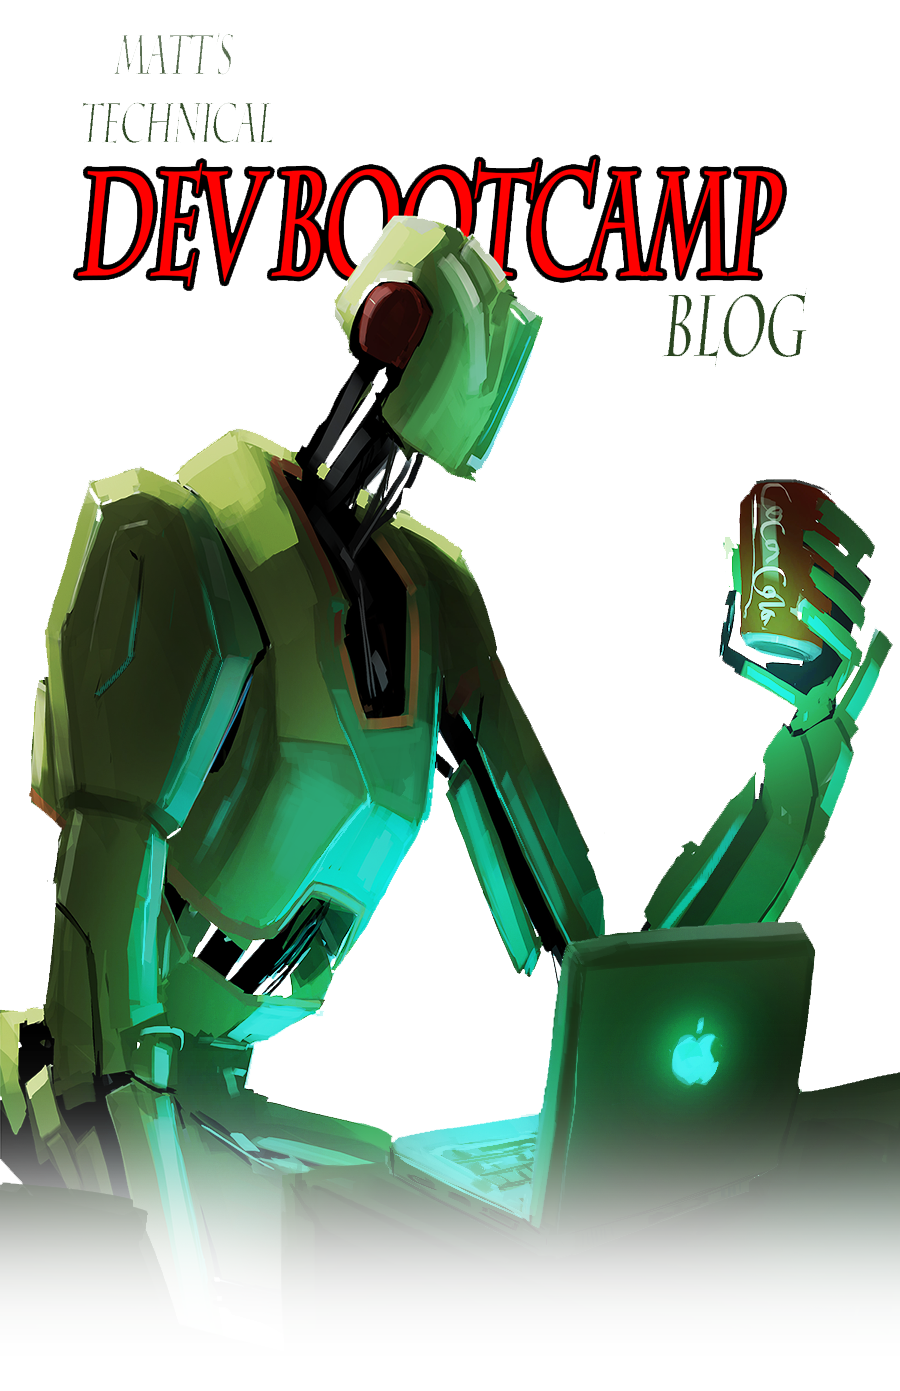
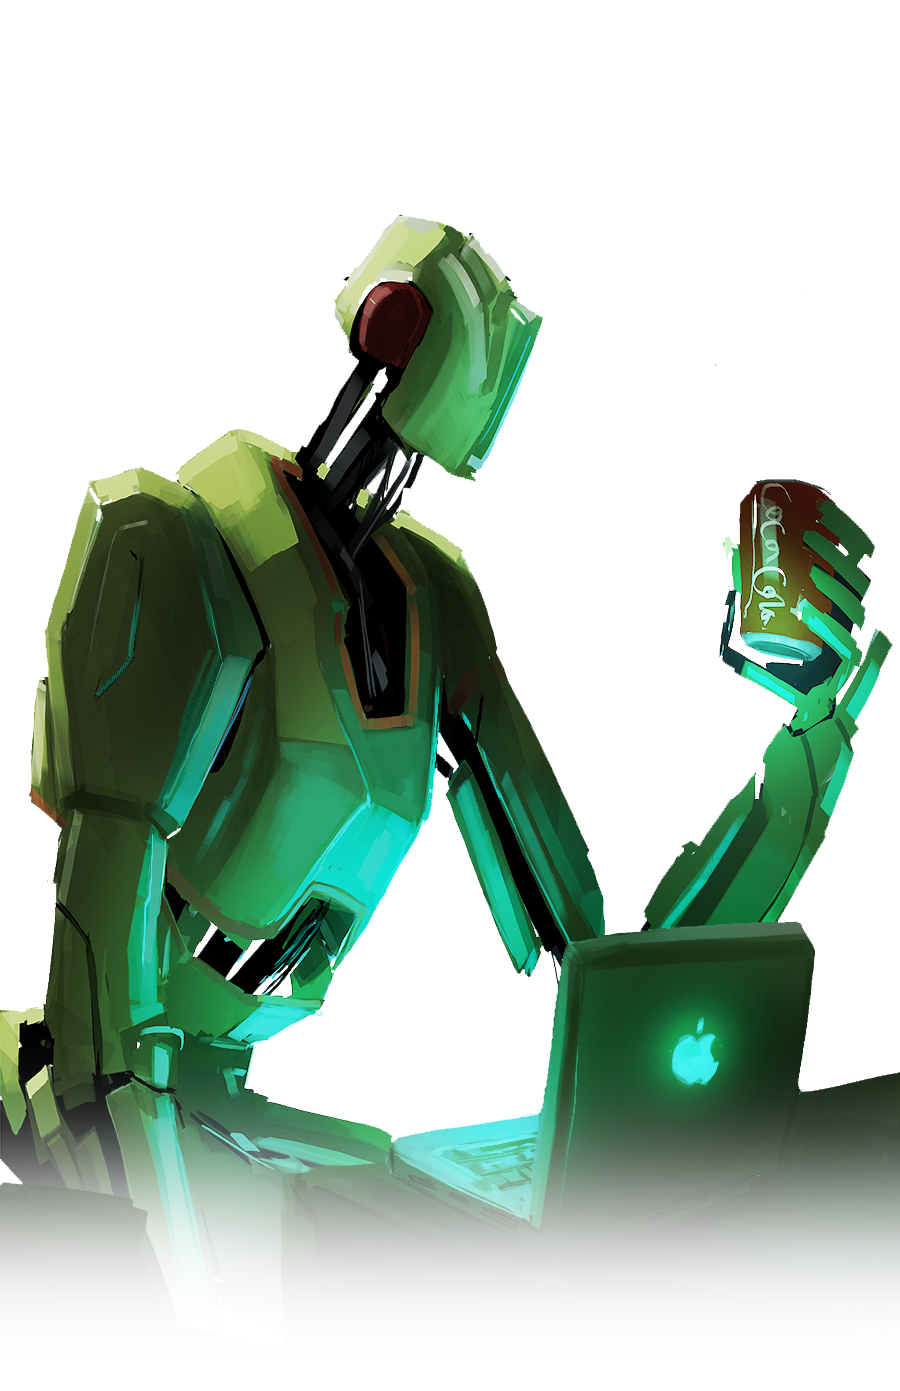
tech blog template

diff --git a/blog/blog-template.html b/blog/blog-template.html
@@ -1,0 +1,54 @@
+<!DOCTYPE html>
+<head>
+  <title>Your page title here</title>
+  <meta charset="UTF-8">
+  <link rel="stylesheet" type="text/css" href="../stylesheets/blog-stylesheet.css">
+</head>
+
+<html>
+<table id="techblogpage">
+  <tr>
+    <td id="techlogo">
+        <table>
+          <tr id="top">
+            <td>
+                <img src="roboto6.png" width="100%">
+            </td>
+          </tr>
+
+          <tr id="bottom">
+            <td id="space">
+
+            </td>
+          </tr>
+        </table>
+    </td>
+    <td id="blog">
+
+      <table>
+        <tr>
+          <td id="websiteheader">
+              <table>
+                <tr><td><img src="../websitetitle.png" width="100%"></td><td id="social">social media links</td></tr>
+
+              </table>
+
+
+        </td>
+      </tr>
+      <tr>
+        <td id="blog">
+          <main>
+          <h1>Post Title</h1>
+          <h2>The subtitle, if you want it</h2>
+          <h4>Today's Date</h4>
+          </main>
+        </td>
+      </tr>
+
+    </table>
+    </td>
+  </tr>
+</table>
+
+</html>

diff --git a/stylesheets/blog-stylesheet.css b/stylesheets/blog-stylesheet.css
@@ -1,0 +1,60 @@
+table{
+width:100%;
+height: 100%;
+}
+#techblogpage{
+background-image: url("../websitebg.png");
+background-repeat: true;
+background-size: 100%;
+
+}
+
+#techlogo{
+background-color: transparent;
+width: 30%;
+
+}
+
+#top{
+
+height: 200px;
+
+}
+
+#websiteheader
+{
+  background-color: transparent;
+
+width: 70%;
+height: 10%;
+
+}
+
+
+#social
+{
+width: 20%;
+background-color: transparent;
+
+}
+
+#space
+{
+vertical-align: top;
+background-color: transparent;
+
+}
+
+#blog
+{
+vertical-align: top;
+background-color: transparent;
+
+
+}
+
+#bottom{
+
+height: 900px;
+
+}
